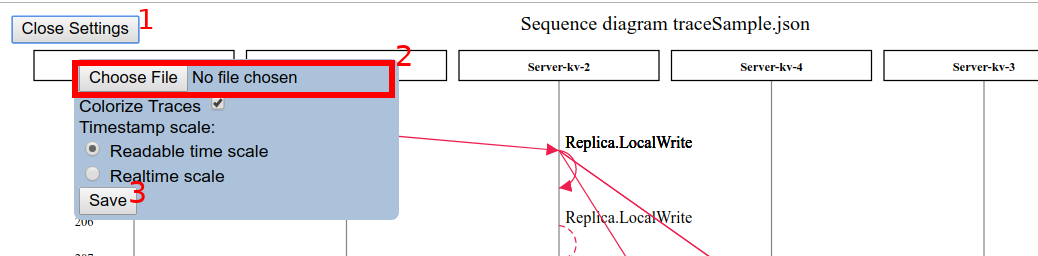
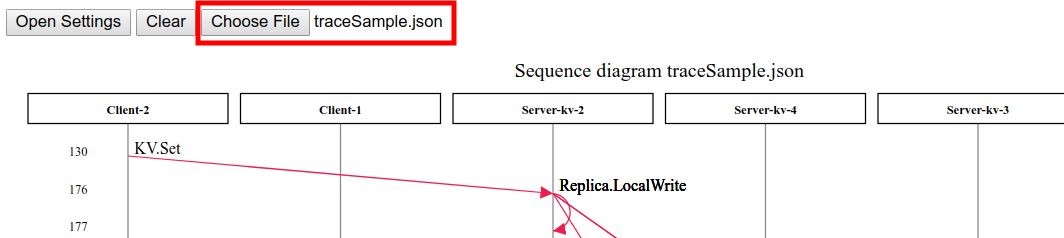
Update readme

diff --git a/README.md b/README.md
@@ -12,7 +12,7 @@ For example:
 docker cp "distsys-course:/tmp/trace.json" "./trace.json"
 ```
 
-After a trace is recorded you can open it with the visualizer. Just select the trace file in `Onen Settings -> Choose File`.
+After a trace is recorded you can open it with the visualizer. Just select the trace file with `Choose File` button.
 
 ![Choose file](docs/FileSelect.png)
 
